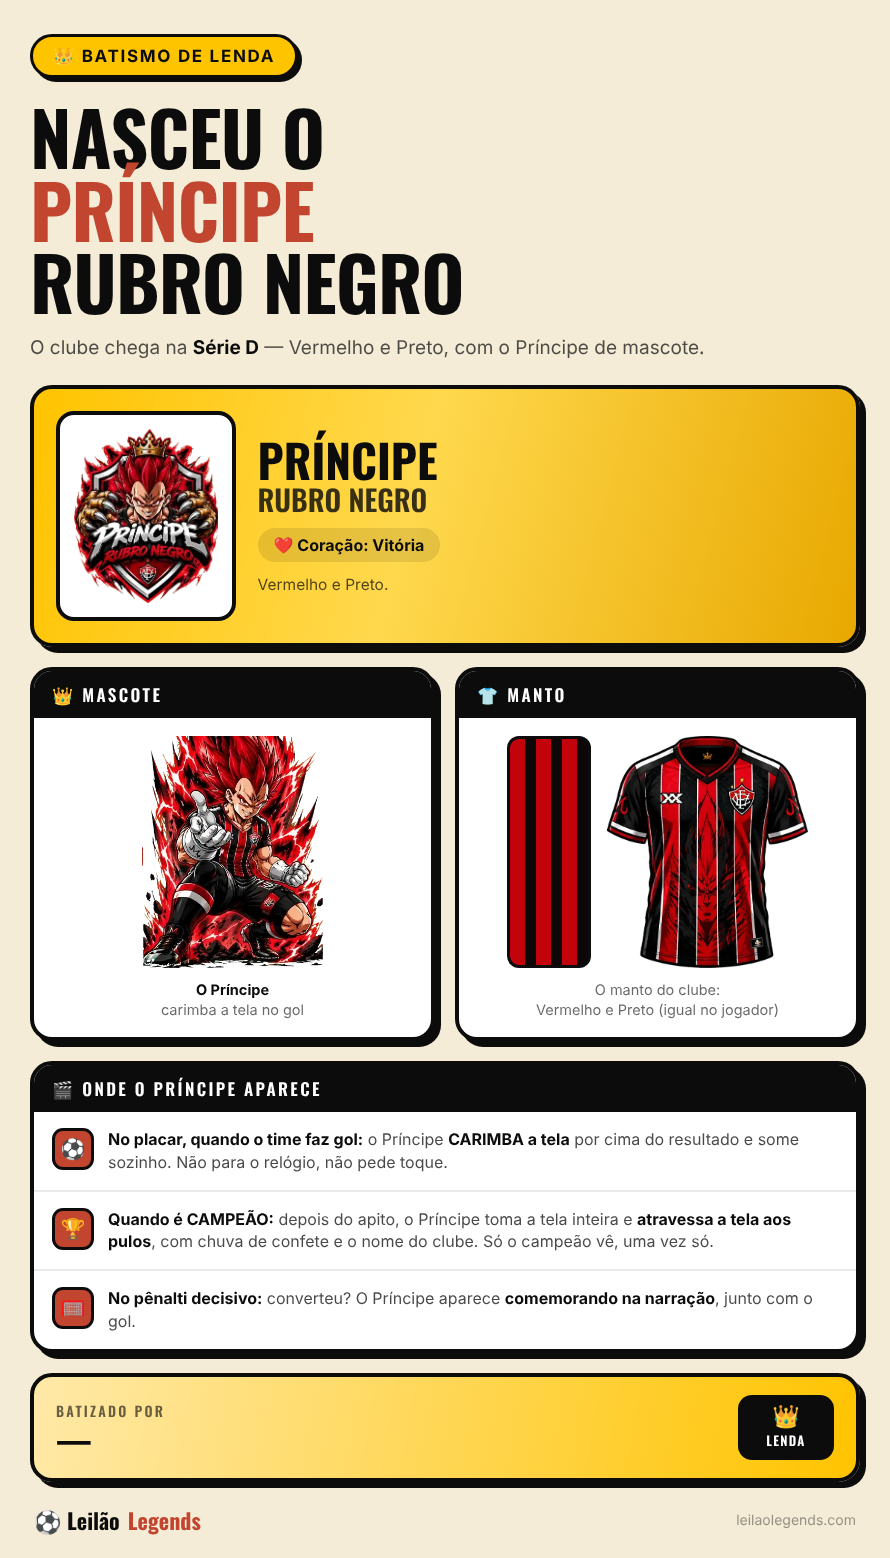
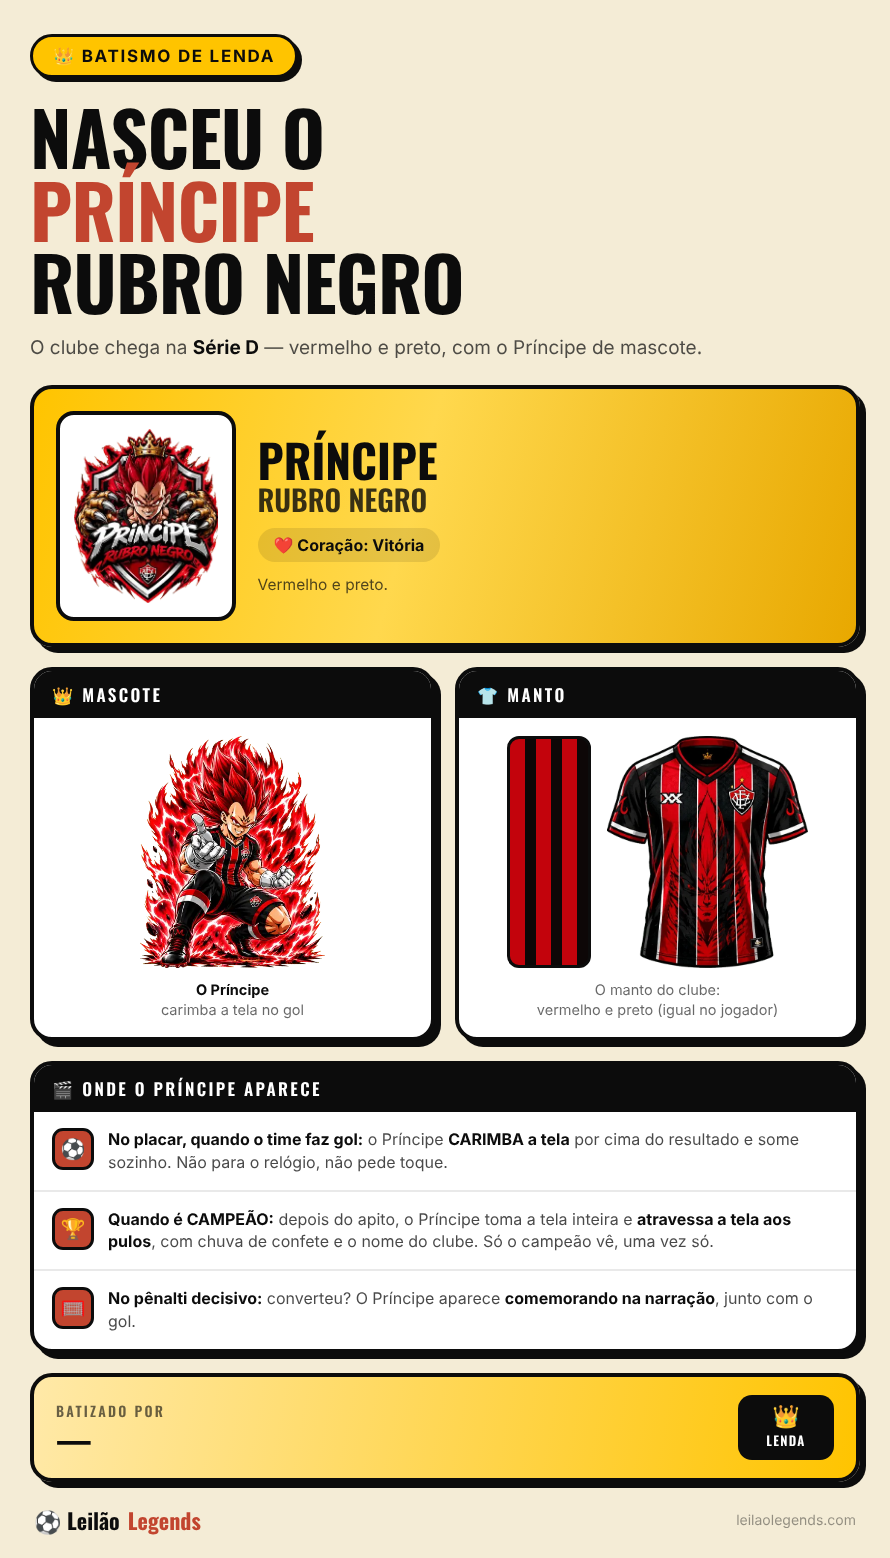
Príncipe Rubro Negro: mascote nova inteira (o cabelo vinha cortado em cima) — 351×440, 44 KB — e post refeito
Claude-Session: https://claude.ai/code/session_018Ap1zPCMVL9XeZJN3u93ZA

Changed region(s): [[0.1517, 0.4621, 0.364, 0.647], [0.3337, 0.2157, 0.7888, 0.2465], [0.8191, 0.647, 0.8494, 0.6778]]

diff --git a/src/escalacao/mascotes.tsx b/src/escalacao/mascotes.tsx
@@ -419,9 +419,9 @@ export const MASCOTES: Record<string, ReactNode> = {
     <img src={paizaoMascoteImg} height={176} width={Math.round(176 * 258 / 440)} alt="O Paizão — Paizão FC" style={{ flex: 'none', display: 'block', objectFit: 'contain' }} />
   ),
   // 👑 O PRÍNCIPE (mascote do Príncipe Rubro Negro — pedroglima50, 02/11): o príncipe de cabelo vermelho de uniforme rubro-negro,
-  // apontando, numa explosão de raios vermelhos. Arte do próprio dono. 📏 344×440, 44 KB — altura 176. mascote_key = "principe_rubronegro".
+  // apontando, numa explosão de raios vermelhos. Arte do próprio dono. 📏 351×440, 44 KB — altura 176 (arte nova 02/11: o cabelo vinha cortado em cima). mascote_key = "principe_rubronegro".
   principe_rubronegro: (
-    <img src={principeMascoteImg} height={176} width={Math.round(176 * 344 / 440)} alt="O Príncipe — Príncipe Rubro Negro" style={{ flex: 'none', display: 'block', objectFit: 'contain' }} />
+    <img src={principeMascoteImg} height={176} width={Math.round(176 * 351 / 440)} alt="O Príncipe — Príncipe Rubro Negro" style={{ flex: 'none', display: 'block', objectFit: 'contain' }} />
   ),
   lulubaba_goleiro: (
     <img src={lulubabaMascoteImg} height={176} width={Math.round(176 * 440 / 342)} alt="O Goleiro — Lulubaba FC" style={{ flex: 'none', display: 'block', objectFit: 'contain' }} />
